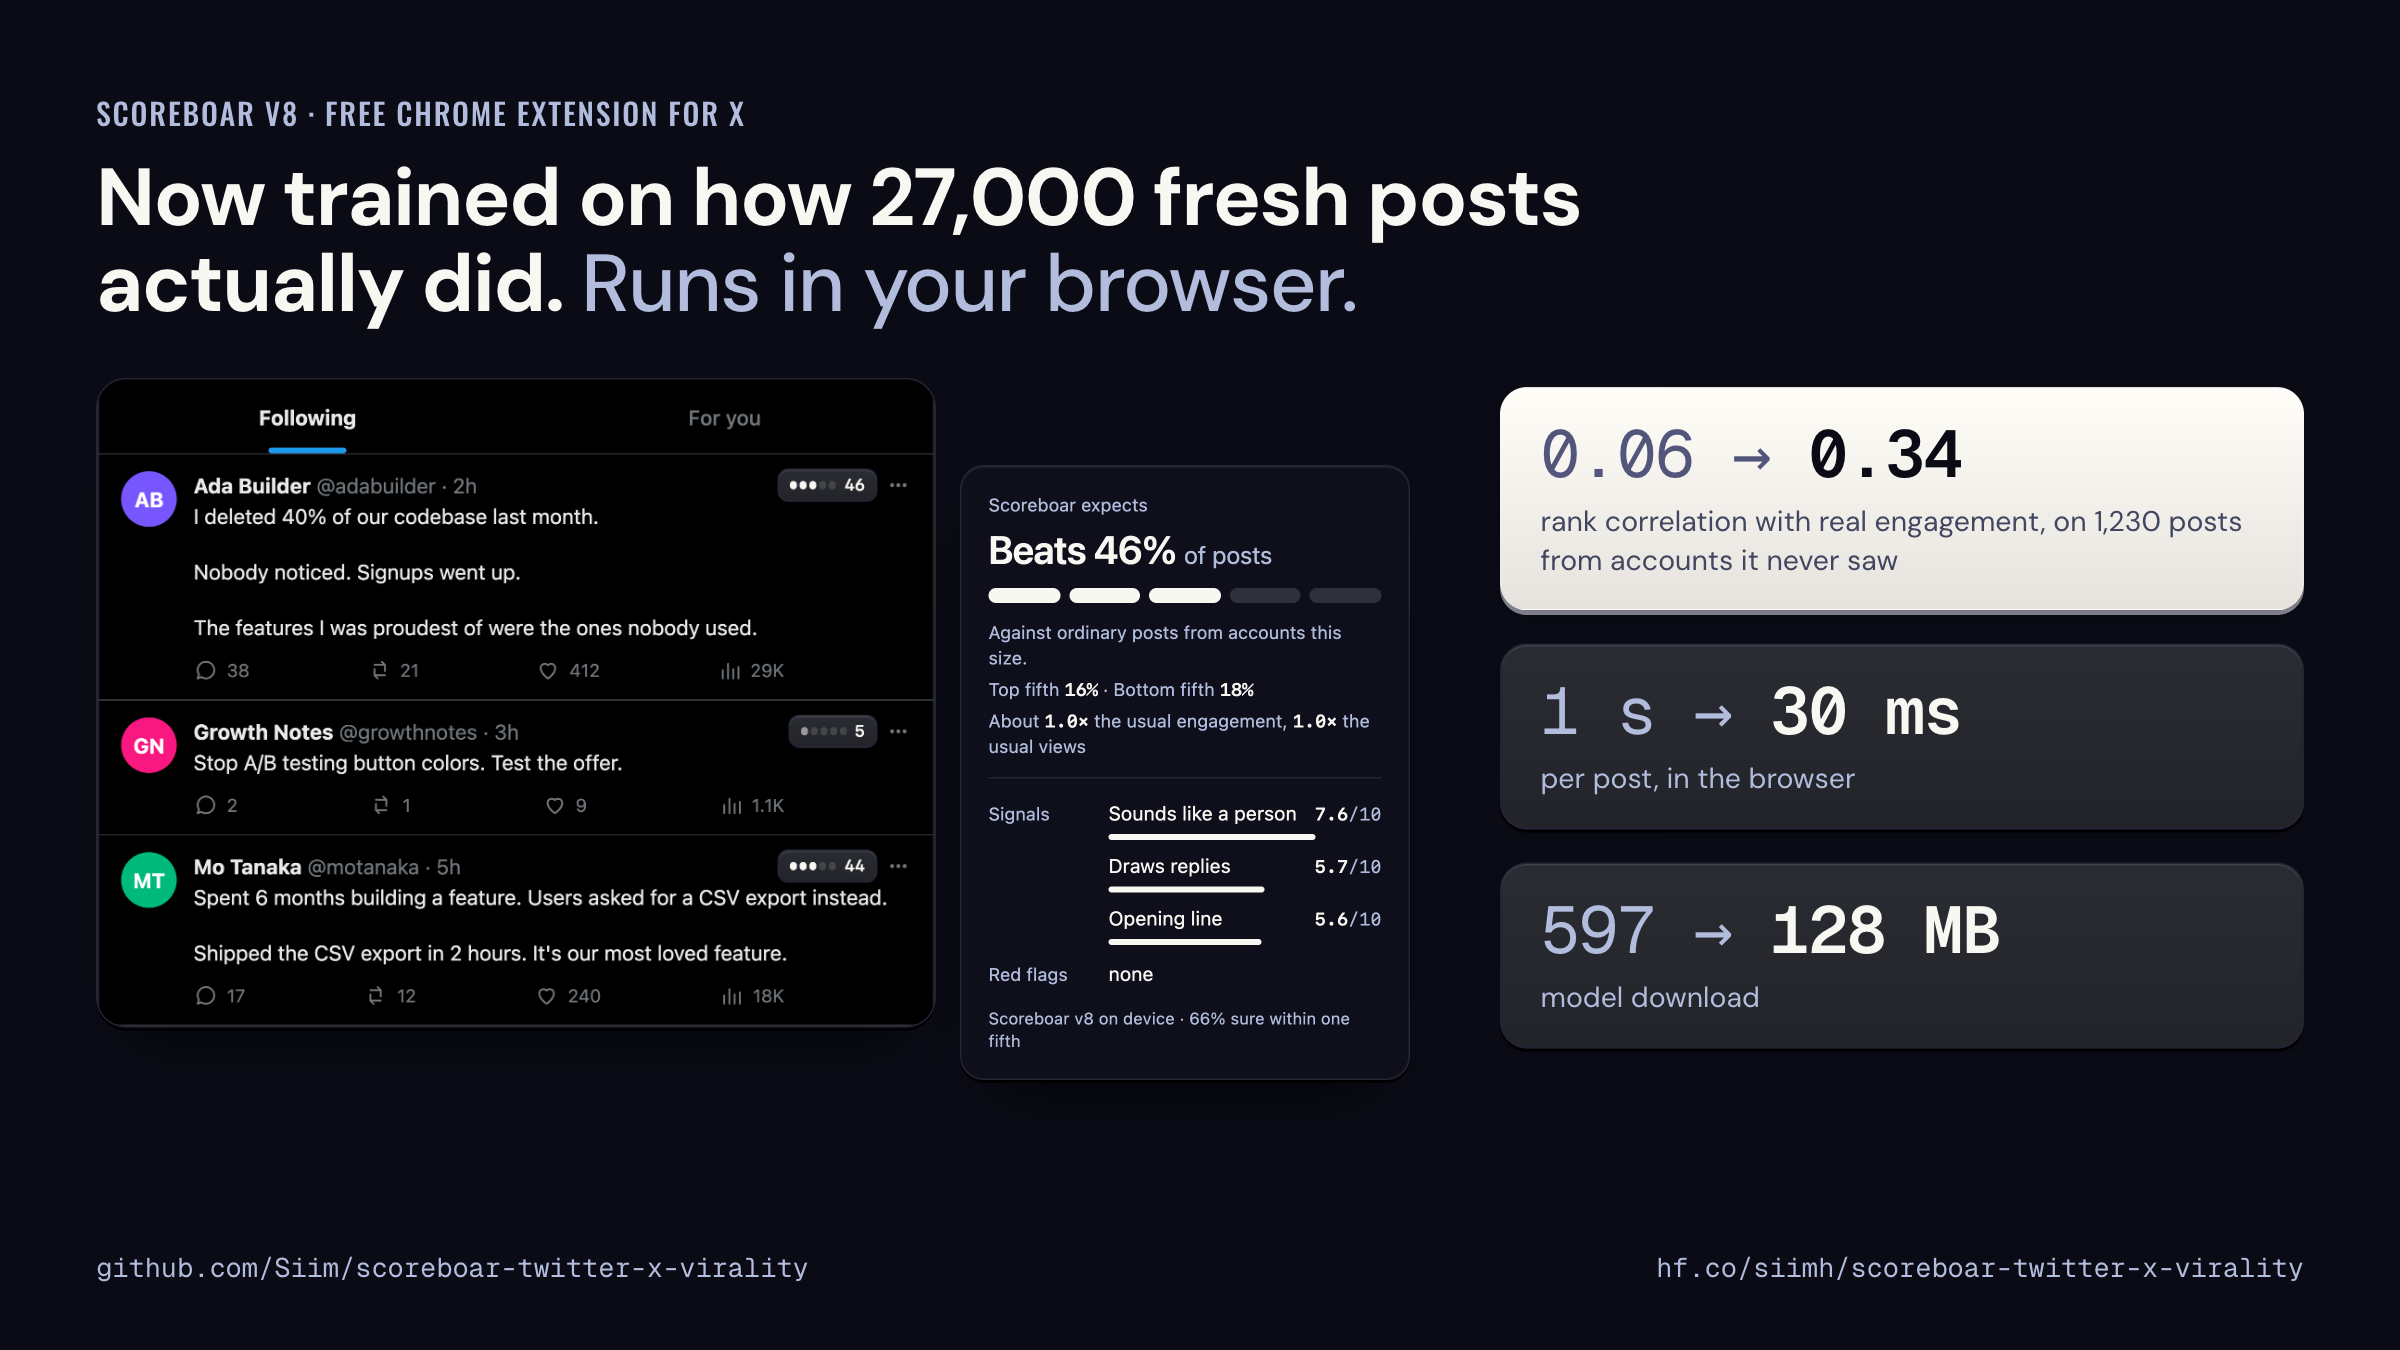
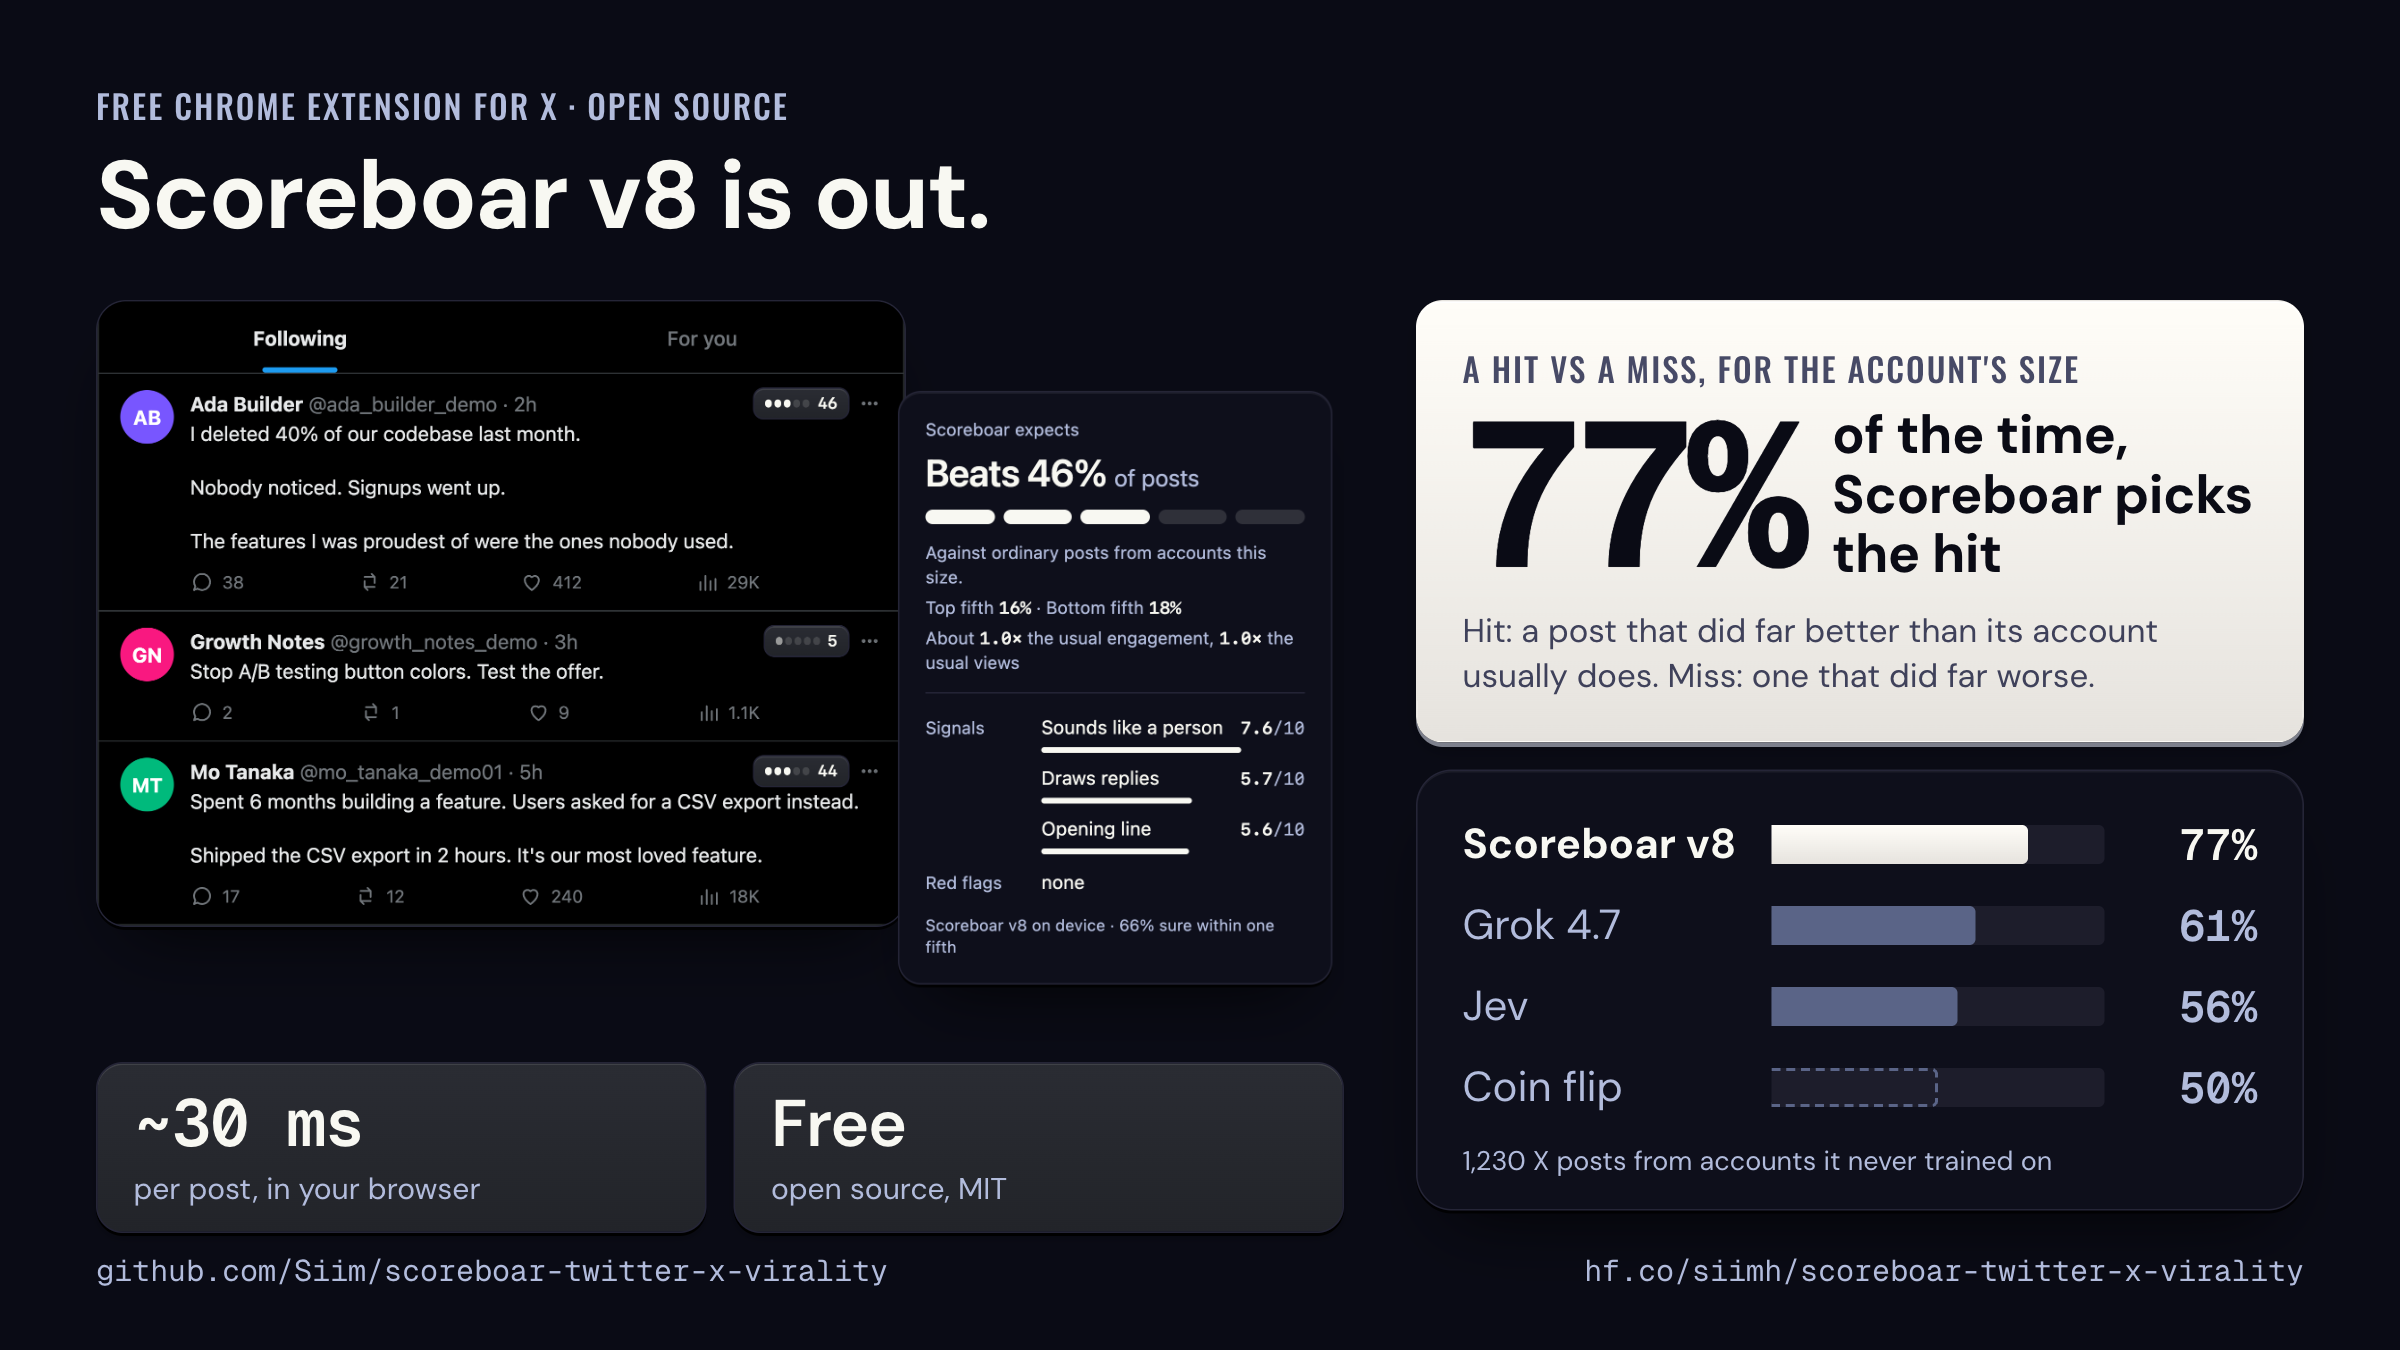
docs: plain-accuracy images; the hero no longer overstates the training set
The hero said the model was trained on 27,000 fresh posts; 27,009 counts
every fresh post, test and calibration included. The new hero and the
versus chart show the plain accuracy numbers instead.

diff --git a/MODEL_CARD.md b/MODEL_CARD.md
@@ -59,6 +59,8 @@ Held-out test set: 1,230 ordinary posts (English, no replies), at least 72 hours
 | Previous Scoreboar release (`v5-full.onnx`) | 52.0% (50.1 to 53.9) | 53.5% (48.3 to 58.8) | 22.8% (18.3 to 28.0) |
 | Coin flip | 50% | 50% | 20% |
 
+![At predicting how X posts perform, Scoreboar v8 beats Grok 4.7 and Jev](https://huggingface.co/siimh/scoreboar-twitter-x-virality/resolve/main/assets/scoreboar-v8-versus.png)
+
 - **Picks the better of two posts.** Over every pair of test posts, how often the model scores higher the one that did better. A tie in the model's score counts as half. grok-4.7 gives tied scores on 2.7% of pairs and Jev on 0.8%; dropping those pairs moves their rates by 0.2 points at most.
 - **Picks a clear winner over a clear loser.** Pairs of one post from the real top fifth and one from the real bottom fifth. The median top-fifth post got 54 likes and 1.7k views, about 6 times what its account size predicts. The median bottom-fifth post got 0 likes and 65 views, a fifth to a quarter of the prediction. This is the easy case and should not be read as overall accuracy.
 - **Top-fifth hit rate.** Of the posts each model ranks in its own top fifth, the share that really landed in the top fifth. Chance is 20%, so v8 is at about 1.7 times chance.

diff --git a/README.md b/README.md
@@ -41,6 +41,8 @@ The gaps over Jev and the previous release hold up on all three measures under b
 
 This compares one job: predicting how an X post performs for its account size. Jev is TypeSafe's text classifier. It is cheap to run and good at describing what a post is, and it was not built to forecast X engagement. grok-4.7 and Jev saw the same post and context (account size, media, quote, link, posting time) and gave an opinion. v8 learned from what really happened. That is how a 32M-parameter model running in your browser comes out ahead at this one task.
 
+![At predicting how X posts perform, Scoreboar v8 beats Grok 4.7 and Jev](docs/scoreboar-v8-versus.png)
+
 The technical measure is rank correlation with real performance: 0.34 for v8, 0.16 for grok-4.7, 0.07 for Jev and 0.06 for the previous release. The chart below shows it. [MODEL_CARD.md](MODEL_CARD.md) has the confidence intervals, simple baselines to compare against, the training data, and what did not work.
 
 ![What predicts how a post does](docs/scoreboar-v8-eval.png)
